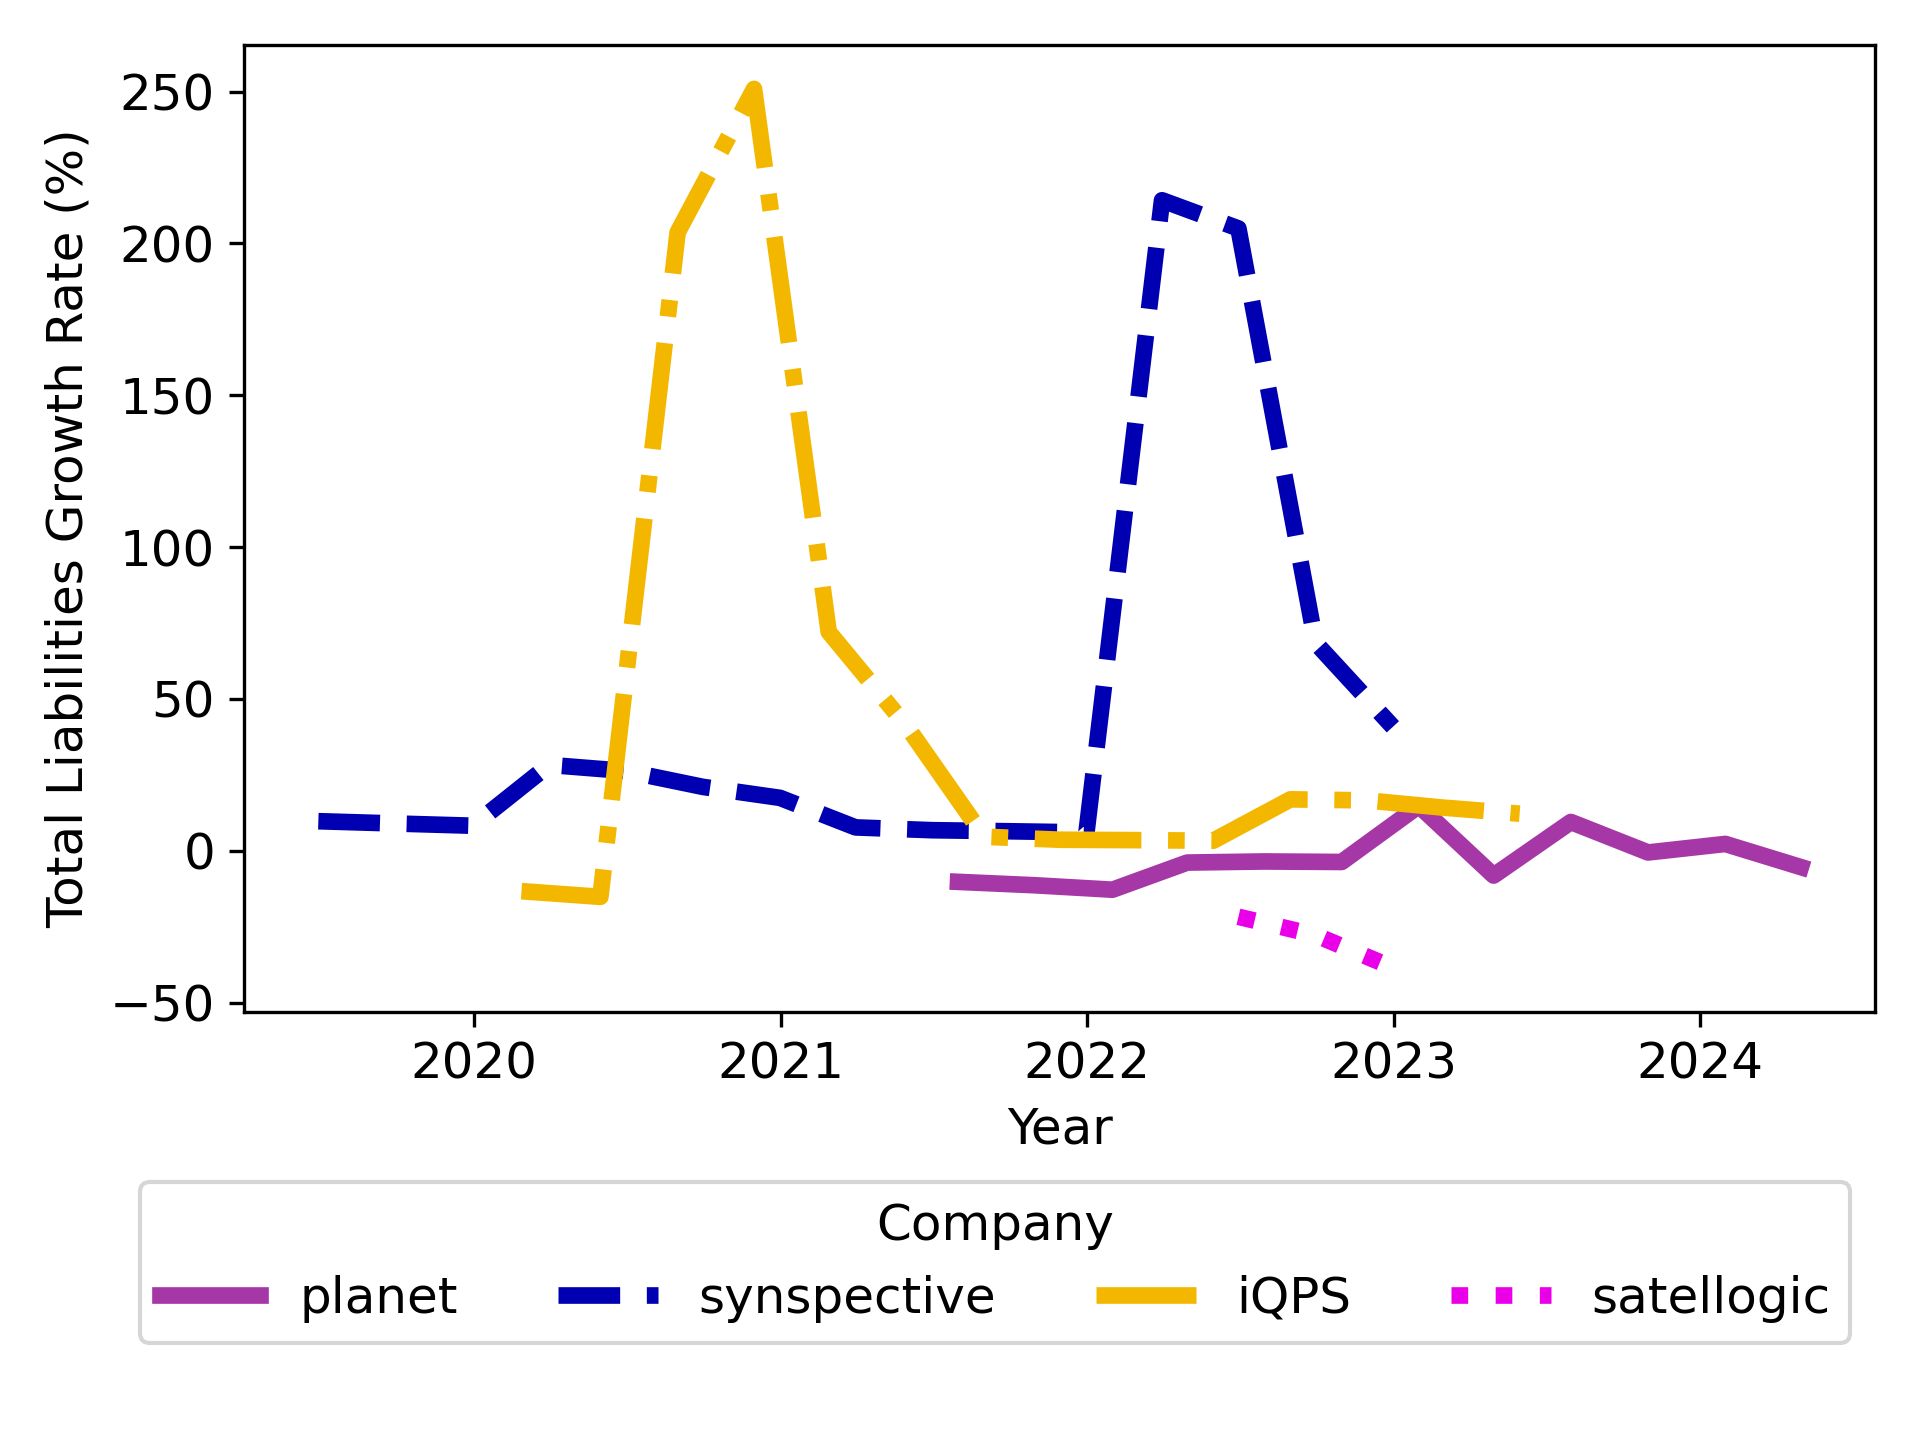
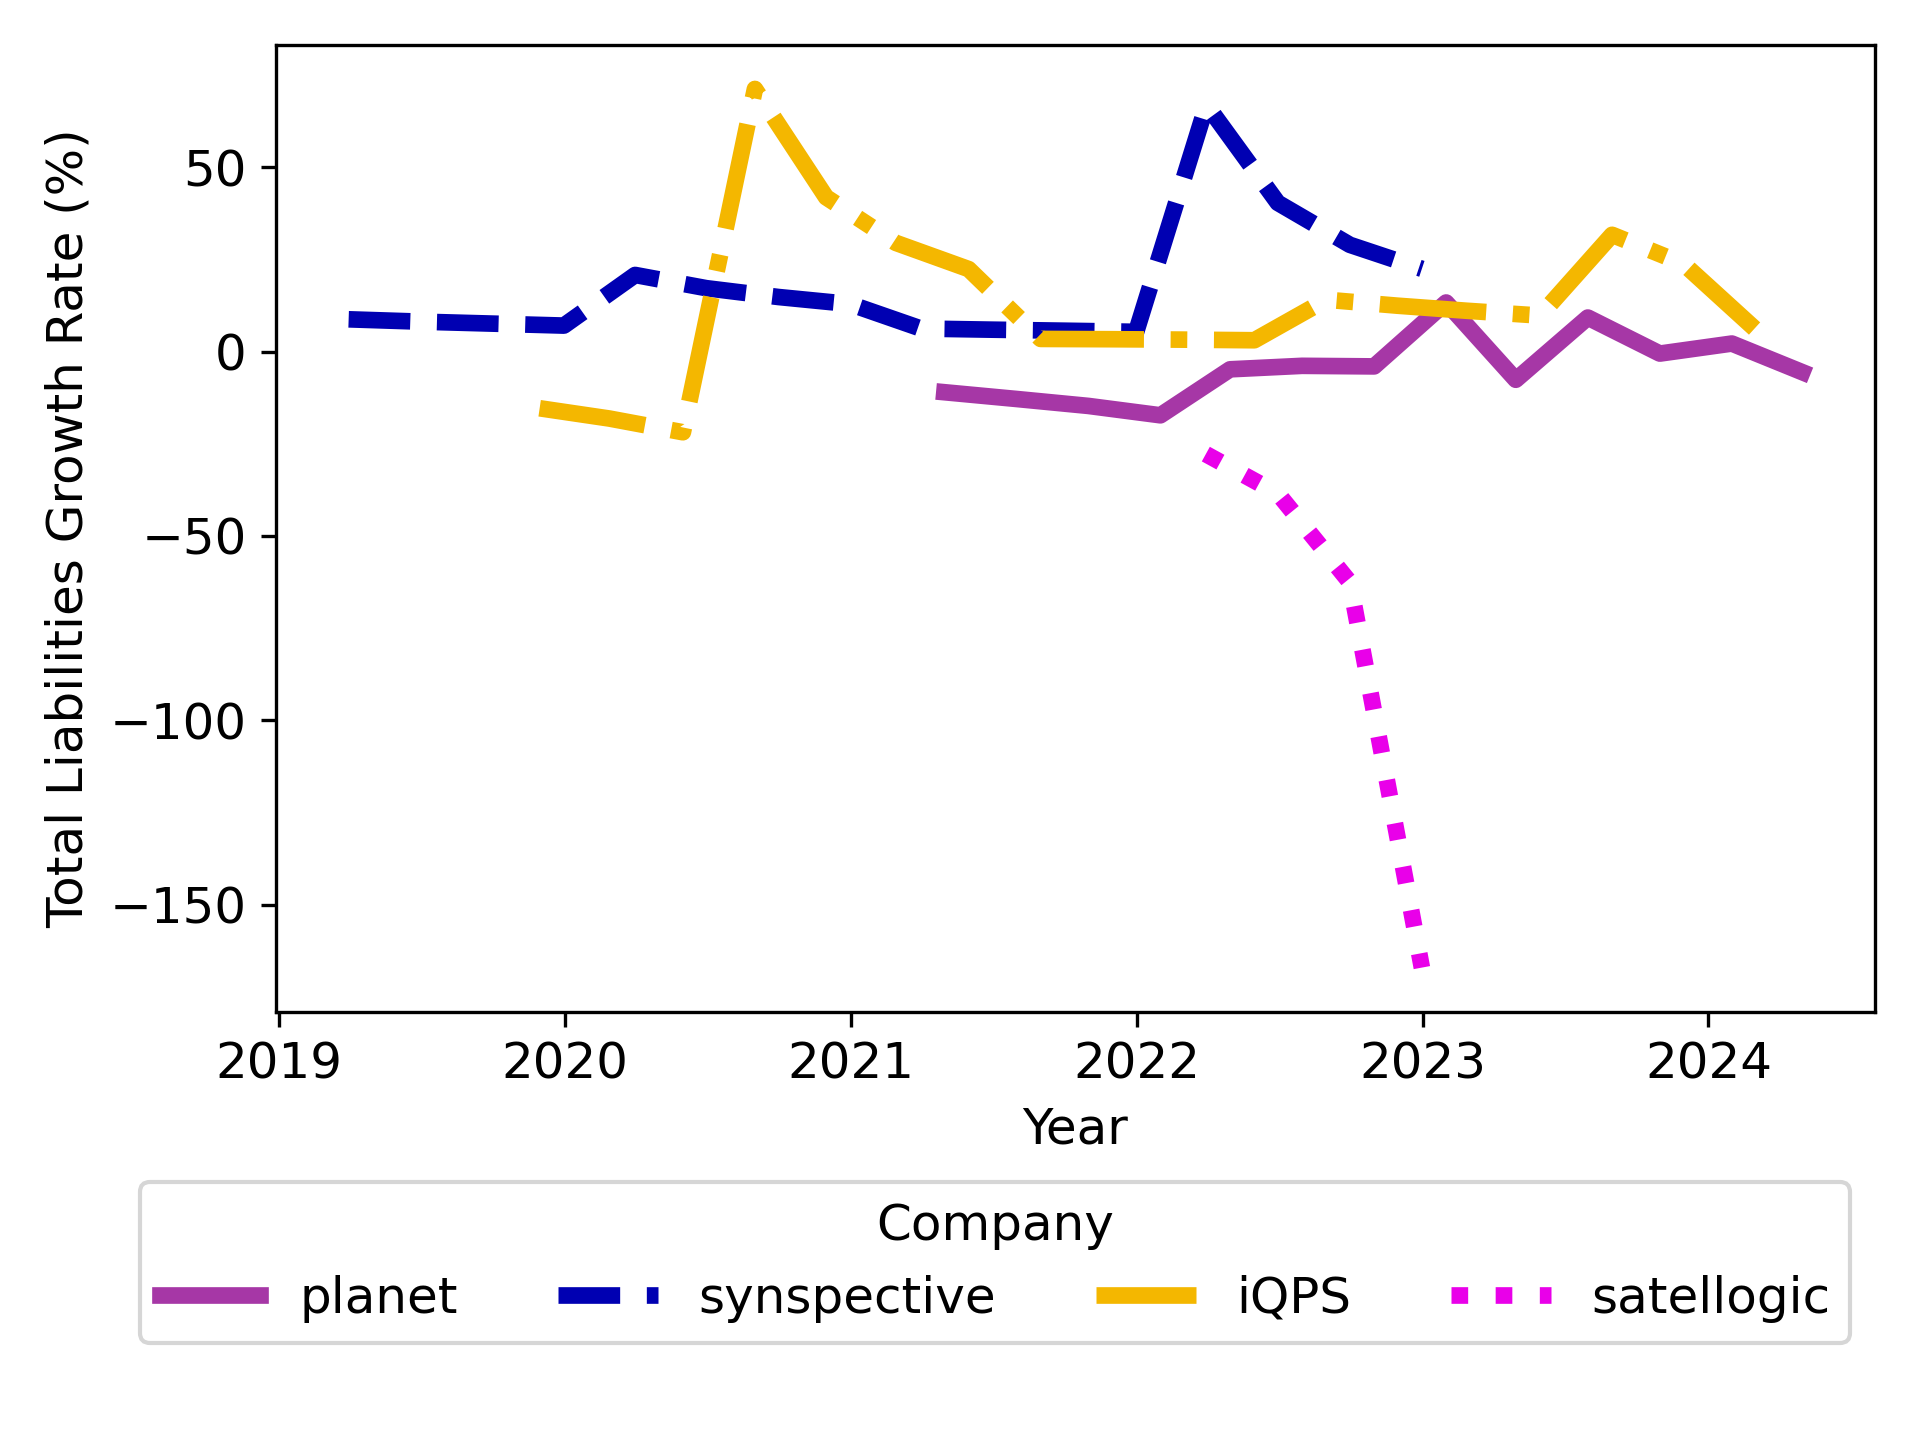
[WIP] fix bug in model specification (rm estimate VAR, only VECM), specify data frame for each company and test models - only PL and Synspective working

diff --git a/src/data_loading.py b/src/data_loading.py
@@ -54,69 +54,90 @@ for i, key in enumerate(keys):
     totalAssets = filtered_data["Total Assets"].values
     totalLiabilities = filtered_data["Total Liabilities"].values
     totalEquity = filtered_data["Total Equity"].values
-    if key == "synspective" or key == "satellogic":
-        print("not enough revenue data")
-    else:
-        revenue = filtered_data["Revenue"].values
-        diffRevenue = np.diff(revenue)
-        diff2Revenue = np.diff(diffRevenue)
-        lnRevenue = np.log(revenue)
-        adf_test(revenue, "revenue")
-        adf_test(lnRevenue, "lnRevenue")
-        adf_test(diffRevenue, "diffRevenue")
-        adf_test(diff2Revenue, "diff2Revenue")
 
     # Transformed data
-    diffAssets = np.diff(totalAssets)
-    diffLiabilities = np.diff(totalLiabilities)
-    diffEquity = np.diff(totalEquity)
-    diff2Assets = np.diff(np.diff(totalAssets))
-    diff2Liabilities = np.diff(diffLiabilities)
-    diff2Equity = np.diff(diffEquity)
-    lnAssets = np.log(totalAssets)
-    lnLiabilities = np.log(totalLiabilities)
-    lnEquity = np.log(totalEquity)
+    transformed_data = {"totalAssets": totalAssets,
+                        "totalLiabilities": totalLiabilities,
+                        "totalEquity": totalEquity,
+                        "diffAssets": np.diff(totalAssets),
+                        "diffLiabilities": np.diff(totalLiabilities),
+                        "diffEquity": np.diff(totalEquity),
+                        "diff2Assets": np.diff(np.diff(totalAssets)),
+                        "diff2Liabilities": np.diff(np.diff(totalLiabilities)),
+                        "diff2Equity": np.diff(np.diff(totalEquity)),
+                        "lnAssets": np.log(totalAssets),
+                        "lnLiabilities": np.log(totalLiabilities),
+                        "lnEquity": np.log(totalEquity),
+                        "growthAssets": (np.diff(totalAssets)/totalAssets[1:])*100,
+                        "growthLiabilities": (np.diff(totalLiabilities)/totalLiabilities[1:])*100,
+                        "growthEquity": (np.diff(totalEquity)/totalEquity[1:])*100,
+                        }
+
+    if key == "synspective" or key == "satellogic":
+        print("Not enough revenue data")
+    else:
+        revenue = filtered_data["Revenue"].values
+        transformed_data["Revenue"] = revenue
+        transformed_data["lnRevenue"] = np.log(revenue)
+        transformed_data["diffRevenue"] = np.diff(revenue)
+        transformed_data["diff2Revenue"] = np.diff(np.diff(revenue))
+        transformed_data["growthRevenue"] = (np.diff(revenue)/revenue[1:])*100
 
     # ADF unit root test for stationarity
-    try:
-        adf_test(totalAssets, "totalAssets")
-        adf_test(lnAssets, "lnAssets")
-        adf_test(diffAssets, "diffAssets")
-        adf_test(diff2Assets, "diff2Assets")
-        adf_test(totalLiabilities, "totalLiabilities")
-        adf_test(lnLiabilities, "lnLiabilities")
-        adf_test(diffLiabilities, "diffLiabilities")
-        adf_test(diff2Liabilities, "diff2Liabilities")
-        adf_test(totalEquity, "totalEquity")
-        adf_test(lnEquity, "lnEquity")
-        adf_test(diffEquity, "diffEquity")
-        adf_test(diff2Equity, "diff2Equity")
-    except:
-        print("Error in testing for stationarity.")
+    stationary_vars = []
+    nonstationary_vars = []
+    error_list = []
+    for idx, dtype in enumerate(transformed_data):
+        try:
+            stationarity = adf_test(transformed_data[dtype], dtype)
+            if stationarity:
+                stationary_vars.append(dtype)
+            else:
+                nonstationary_vars.append(dtype)
+        except:
+            error_list.append(dtype)
+            # print("Error in testing for stationarity, ", f"{dtype}: ", transformed_data[dtype])
+    print("Stationary variables: ", stationary_vars)
+    print("Nonstationary variables: ", nonstationary_vars)
+    print("Error testing for stationarity: ", error_list)
 
-    frame = np.column_stack((diffAssets,diffLiabilities))
+    if key == "planet":
+        date_range = filtered_data["Quarter"][1:]
+        frame = np.column_stack((transformed_data["diffRevenue"], transformed_data["diffAssets"], transformed_data["diffEquity"]))
+    elif key == "synspective":
+        date_range = filtered_data["Quarter"][1:]
+        frame = np.column_stack((transformed_data['diffAssets'],transformed_data['diffEquity'],transformed_data['diffLiabilities']))
+    elif key == "iQPS":
+        # date_range = filtered_data["Quarter"][1:]
+        # frame = np.column_stack((transformed_data["lnAssets"], transformed_data["lnEquity"], transformed_data["lnLiabilities"]))
+        date_range = filtered_data["Quarter"][2:]
+        frame = np.column_stack((transformed_data["diff2Assets"], transformed_data["diff2Liabilities"], transformed_data["diff2Equity"]))
+        # # why won't this work?
+        # date_range = filtered_data["Quarter"][:].values
+        # frame = np.column_stack((transformed_data["totalAssets"], transformed_data["totalEquity"], transformed_data["totalLiabilities"]))
+        print(date_range, frame)
+    elif key == "satellogic":
+        date_range = filtered_data["Quarter"][:]
+        frame = np.column_stack((transformed_data["totalAssets"], transformed_data["totalEquity"], transformed_data["totalLiabilities"]))
 
     try:
-        vecm = johansen_vecm(filtered_data["Quarter"][2:], frame)
-        print(vecm.summary())
+        vecm = johansen_vecm(date_range, frame)
+        print("VECM Summary: ", vecm.summary())
+        print("Gamma: ", vecm.gamma)
+        print("Alpha: ", vecm.alpha)
+        print("Beta: ", vecm.beta)
+        print("Var_rep: ", vecm.var_rep)
     except:
         print(f"skipping {key} vecm")
     
-    logAssets = np.diff(lnAssets)
-    logLiabilities = np.diff(lnLiabilities)
-    logEquity = np.diff(lnEquity)
-    divAssets = []
-    divLiabilities = []
-    divEquity = []
-    for j in range(1, len(diffAssets)):
-        divAssets.append((diffAssets[j]/totalAssets[j-1])*100)
-        divLiabilities.append((diffLiabilities[j]/totalLiabilities[j-1])*100)
-        divEquity.append((diffEquity[j]/totalEquity[j-1])*100)
+    logAssets = np.diff(transformed_data["lnAssets"])
+    logLiabilities = np.diff(transformed_data["lnLiabilities"])
+    logEquity = np.diff(transformed_data["lnEquity"])
 
     companyColor = np.asarray(keys[key]["color"])/255
-    ax1.plot(filtered_data["Quarter"][2:], divAssets, color=companyColor, linestyle=keys[key]["style"], label=key, linewidth=4)
-    ax2.plot(filtered_data["Quarter"][2:], divLiabilities, color=companyColor, linestyle=keys[key]["style"], label=key, linewidth=4)
-    ax3.plot(filtered_data["Quarter"][2:], divEquity, color=companyColor, linestyle=keys[key]["style"], label=key, linewidth=4)
+    ax1.plot(filtered_data["Quarter"].values[1:], transformed_data["growthAssets"], color=companyColor, linestyle=keys[key]["style"], label=key, linewidth=4)
+    ax2.plot(filtered_data["Quarter"].values[1:], transformed_data["growthLiabilities"], color=companyColor, linestyle=keys[key]["style"], label=key, linewidth=4)
+    ax3.plot(filtered_data["Quarter"].values[1:], transformed_data["growthEquity"], color=companyColor, linestyle=keys[key]["style"], label=key, linewidth=4)
     plot_acf(logAssets, lags=3, title=key, ax = ax4[i//2, i%2], color = 'red')
     plot_pacf(logAssets, lags=2, title=key, ax = ax5[i//2, i%2], color = 'red')
 
@@ -144,7 +165,7 @@ ax3.set_position([box3.x0, box3.y0 + box3.height * 0.2,
                  box3.width, box3.height * 0.8])
 ax3.legend(ncol=4, bbox_to_anchor=(1, -0.15),
           fancybox=True, title=legendTitle, fontsize='12', frameon=True)
-# ax3.text(0.65, 0.96, 'SATL moves to U.S.A.', weight='bold', transform=ax3.transAxes)
+ax3.text(0.65, 0.96, 'SATL moves to U.S.A.', weight='bold', transform=ax3.transAxes)
 fig3.savefig(f"{fig3_path}")
 
 fig4.tight_layout()

diff --git a/src/utils.py b/src/utils.py
@@ -1,27 +1,27 @@
 from statsmodels.tsa.stattools import adfuller
 from statsmodels.tsa.vector_ar.vecm import coint_johansen
 from statsmodels.tsa.api import VAR
-from statsmodels.tsa.vector_ar.vecm import VECM
+from statsmodels.tsa.vector_ar.vecm import VECM, select_order
 
 def adf_test(series, name):
     result = adfuller(series)
     # print('ADF Statistic:', result[0])
     # print('p-value:', result[1])
     if result[1] < 0.05:
-        print(f'{name} is stationary')
+        return True
     else:
-        print(f'{name} is non-stationary')
+        return False
     
 def johansen_vecm(date_range, frame):
     # Perform Johansen cointegration test
     johansen_result = coint_johansen(frame, 0, 1)
-    # print('Eigenvalues:', johansen_result.eig)
+    count_of_zeros = sum([1 for x in johansen_result.eig if x == 0])
+    rank = len(johansen_result.eig) - count_of_zeros - 1
     # print('Trace Statistic:', johansen_result.lr1)
     # print('Critical Values:', johansen_result.cvt)
 
     # Determine the optimal lag length
-    model = VAR(frame)
-    lag_order = model.select_order()
+    lag_order = select_order(frame, maxlags=5)
 
     # Choose an available criterion, e.g., 'aic', 'bic', 'hqic'
     if 'aic' in lag_order.selected_orders:
@@ -36,6 +36,6 @@ def johansen_vecm(date_range, frame):
     print(f'Chosen lag length based on available criterion: {chosen_lag}')
 
     # coint_rank is number of non-zero eigenvalues minus 1
-    vecm = VECM(frame, k_ar_diff=chosen_lag, coint_rank=1, dates=date_range)
+    vecm = VECM(frame, k_ar_diff=chosen_lag, coint_rank=rank, dates=date_range)
     vecm_fit = vecm.fit()
     return vecm_fit

diff --git a/README.md b/README.md
@@ -1,6 +1,6 @@
 # Business Innovation in Commercial Space: Culture and Trends in Earth Observation
 
-This repository contains the data and analysis code to support methods in our paper, *Business Innovation in Commercial Space: Culture and Trends in Earth Observation*, by Giulia Cambone*, Holly Dinkel*, Luca Ferrone*, KangSanKim (Antonio Stark)*, Shinsuke Kito*, and Delphine Urbah*.
+This repository contains the data and analysis code to support methods in our paper, *Business Innovation in Commercial Space: Culture and Trends in Earth Observation*, by Giulia Cambone*, Holly Dinkel*, Luca Ferrone*, Antonio Stark*, Shinsuke Kito*, Chawalwat Martkamjan*, and Delphine Urbah*. This work was conducted within the framework of the 2024 International Astronautical Federation (IAF) International Programme/Project Management Committee (IPMC) Young Professionals' Workshop.
 
 *Denotes equal contribution.
 
@@ -19,12 +19,18 @@ Clone the repository:
 git clone --recurse-submodules git@github.com:hollydinkel/space_econometrics.git
 ```
 
+To run the script and generate results on existing data in the repository, run:
+
+```bash
+python src/data_loading.py
+```
+
 ## BibTex
 
 ```bash
 @ARTICLE{
   iafipmc2024innovation,
-  author={Cambone, Giulia and Dinkel, Holly and Ferrone, Luca and Kim, KangSan and Kito, Shinsuke and Urbah, Delphine},
+  author={Cambone, Giulia and Dinkel, Holly and Ferrone, Luca and Kim, KangSan and Kito, Shinsuke and Martkamjan, Chawalwat and Urbah, Delphine},
   journal={IAF International Astronautical Congress}, 
   title={Business Innovation in Commercial Space: Culture and Trends in Earth Observation}, 
   year={2024},
